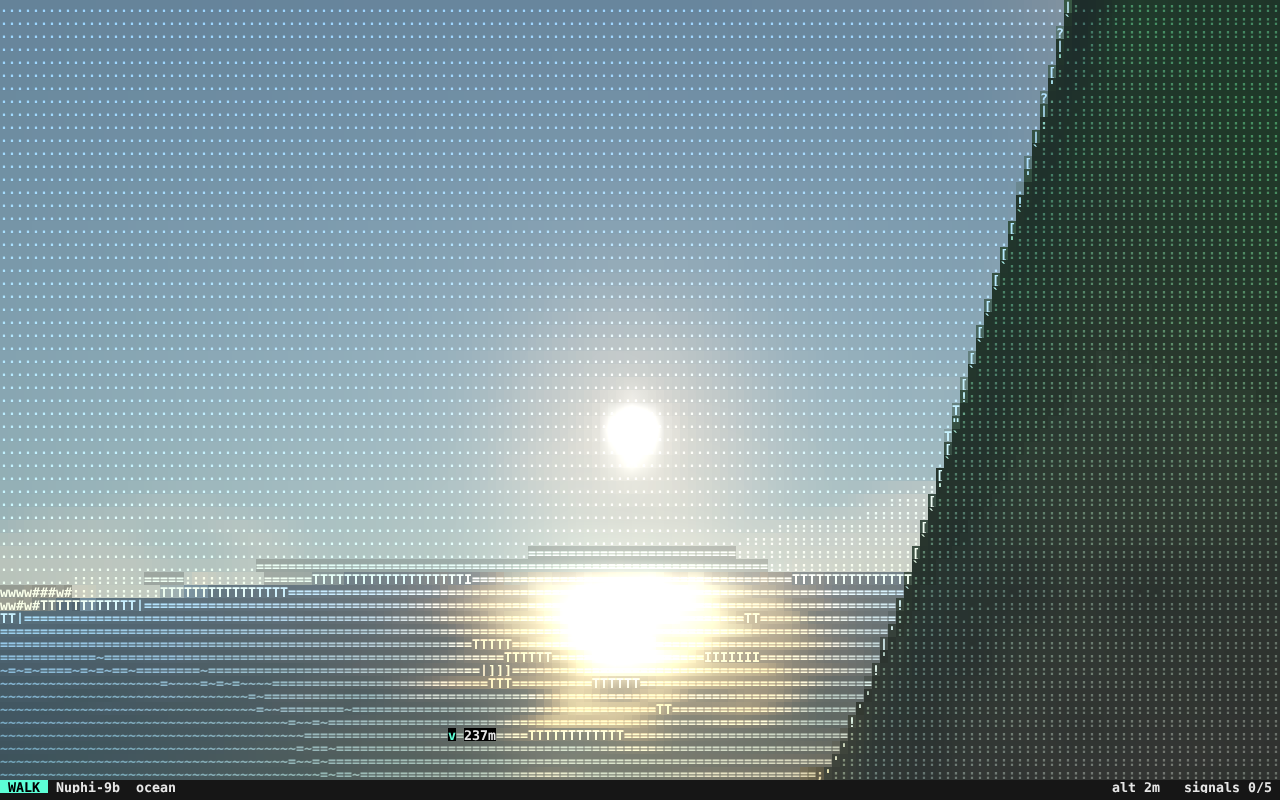
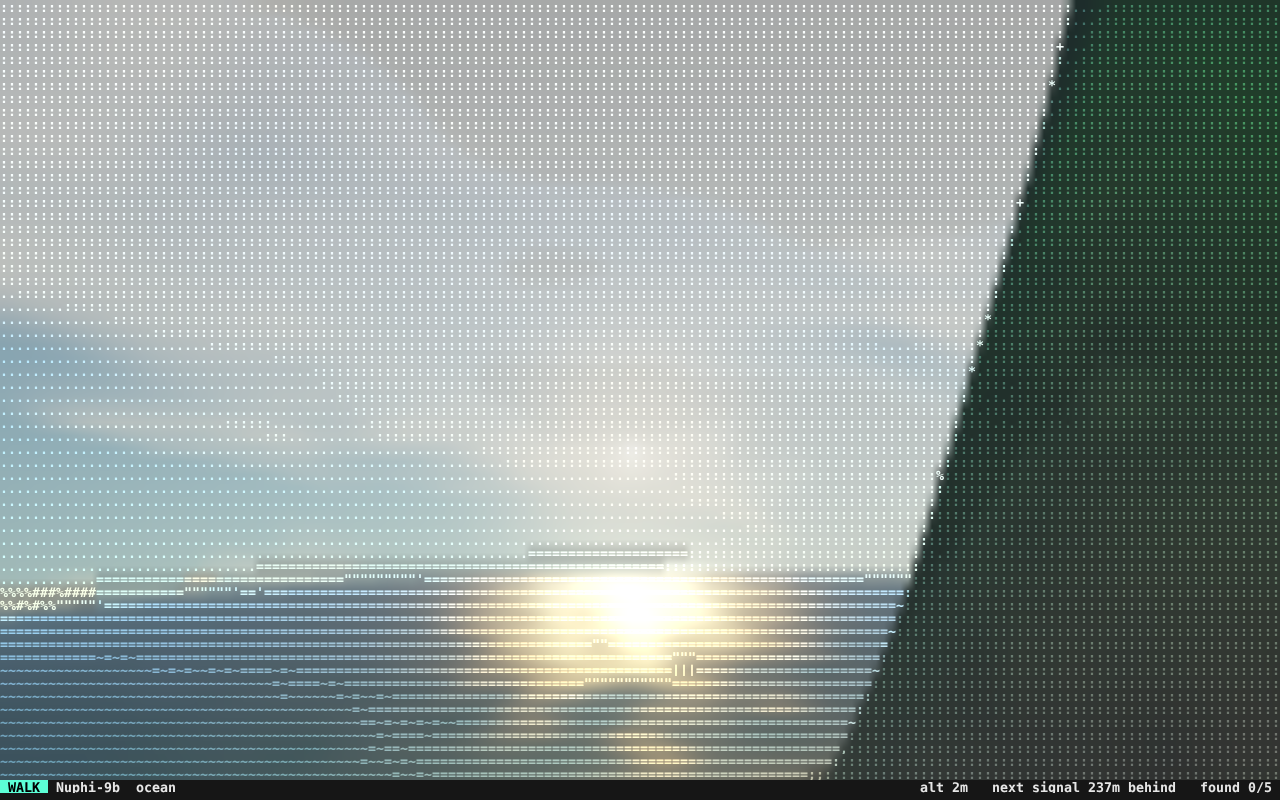
Smoother picture: no letters in the view, blended colour, signal direction in the status line
- the picture is drawn only with symbols; each surface keeps to its own
  set, and a line character (_ / \ ( ) ' ") stands in at an edge only
  when its shape actually fits
- the colour behind the characters is the cell average, blended between
  cells, so edges no longer step; nothing behind the stars
- signal beams are drawn with bars
- the floating marker is gone; the status line says how far the next
  signal is and which way to turn
- you can wade but not swim, and you cannot land on deep water
- the noise behind clouds comes from a fixed seed, so a planet looks the
  same on every load

diff --git a/index.html b/index.html
@@ -117,19 +117,19 @@ const RAMPS = [
   ' .:~',         // cloud
   ' .-~=',        // water
   ' .,:;=',       // sand
-  ' .,;"v*w',     // grass
-  ' .,:;=+x',     // dry ground
-  ' .:^x%#',      // rock
+  ' .,;"*%',      // grass
+  ' .,:;=+%',     // dry ground
+  ' .:^=%#',      // rock
   ' .:+*#',       // snow
-  ' .:*YT#&',     // tree
+  ' .:+*%&#',     // tree
   ' .:~=*%#@',    // lava
   ' .:-=+',       // ice
   ' .:+<>*#',     // crystal
-  ' .:|IH#',      // spire
+  ' .:|!#',       // spire
 ];
 // how much of the surface colour fills the cell behind the character. high values read as
 // solid shapes with a light texture, low values as loose characters on black
-const BACKING = [.5, .9, .9, .75, .7, .7, .7, .65, .75, .6, .5, .75, .5, .6];
+const BACKING = [0, .9, .9, .75, .7, .7, .7, .65, .75, .6, .5, .75, .5, .6];
 
 // heights are metres, colour stops run from the shore (0) to the highest peak (1),
 // tau is how much red/green/blue light the air scatters straight overhead,
@@ -721,6 +721,7 @@ void main() {
     float pulse = .75 + .25 * sin(uTime * 3. - sb * .08 + float(i));
     col += mix(vec3(.6), uBeaconCol, step(.5, b.w)) * b.w * g * pulse * 2.6 * smoothstep(170., 60., sb);
     glow = max(glow, g * b.w);
+    if (g * b.w > .45) mat = ${SPIRE}.;
   }
 
   col = 1. - exp(-col * 1.3);
@@ -731,7 +732,7 @@ void main() {
 // pass 2: one pixel per character cell. picks the character and its two colours
 const CELLS = `#version 300 es
 precision highp float;
-uniform sampler2D uScene, uInfo, uShapes, uRamps;
+uniform sampler2D uScene, uInfo, uShapes, uRamps, uAllow;
 uniform vec2 uGrid;
 uniform int uCount;
 uniform float uInk;
@@ -756,12 +757,14 @@ void main() {
     lo = min(lo, d[k]);
   }
   // push the samples apart so an edge inside the cell survives the match
-  if (top > 0.) for (int k = 0; k < 6; k++) d[k] = top * pow(d[k] / top, 1.8);
+  if (top > 0.) for (int k = 0; k < 6; k++) d[k] = top * pow(d[k] / top, 1.4);
 
   vec3 a = vec3(d[0], d[1], d[2]), b = vec3(d[3], d[4], d[5]);
-  float edge = smoothstep(.06, .22, (top - lo) / uInk);
+  float edge = smoothstep(.1, .3, (top - lo) / uInk);
   float dither = fract(52.9829189 * fract(dot(cell, vec2(.06711056, .00583715)))) - .5;
   float mean = (a.x + a.y + a.z + b.x + b.y + b.z) / 6.;
+  vec3 ca = a - mean, cb = b - mean;
+  float spread = dot(ca, ca) + dot(cb, cb);   // how far the cell is from flat
 
   // a flat cell takes the character its material uses at this brightness;
   // a cell with an edge in it takes whichever character has the closest shape
@@ -770,7 +773,13 @@ void main() {
   int tone = int(texelFetch(uRamps, ivec2(level, m), 0).r * 255. + .5), glyph = tone;
   float best = 1e9;
   for (int i = 0; i < uCount; i++) {
-    vec3 da = texelFetch(uShapes, ivec2(i, 0), 0).rgb - a, db = texelFetch(uShapes, ivec2(i, 1), 0).rgb - b;
+    if (i != tone && texelFetch(uAllow, ivec2(i, m), 0).r < .5) continue;
+    vec3 ga = texelFetch(uShapes, ivec2(i, 0), 0).rgb, gb = texelFetch(uShapes, ivec2(i, 1), 0).rgb;
+    float gm = (ga.x + ga.y + ga.z + gb.x + gb.y + gb.z) / 6.;
+    vec3 sa = ga - gm - ca, sb = gb - gm - cb;
+    // another character only replaces the tone when it really has the shape of this edge
+    if (i != tone && dot(sa, sa) + dot(sb, sb) > .6 * spread) continue;
+    vec3 da = ga - a, db = gb - b;
     float e = dot(da, da) + dot(db, db);
     e = i == tone ? e * edge : e + 1. - edge;
     if (e < best) { best = e; glyph = i; }
@@ -786,7 +795,7 @@ void main() {
   fg /= max(1., max(fg.r, max(fg.g, fg.b)));
 
   o0 = vec4(fg, float(glyph) / 255.);
-  o1 = vec4(dark * uBack[m], 1.);
+  o1 = vec4(avg * uBack[m], 1.);
   o2 = vec4(avg * em, 1.);
 }`;
 
@@ -817,7 +826,8 @@ void main() {
   }
   if (uRaw > .5) { o = vec4(texture(uScene, uv).rgb, 1.); return; }
   vec4 a = texelFetch(uC0, ci, 0);
-  vec3 col = mix(texelFetch(uC1, ci, 0).rgb, a.rgb, ink(int(a.a * 255. + .5), f));
+  // the colour behind the characters is blended between cell centres, so it has no steps
+  vec3 col = mix(texture(uC1, uv).rgb, a.rgb, ink(int(a.a * 255. + .5), f));
   col += textureLod(uGlow, uv, 1.).rgb * .45 + textureLod(uGlow, uv, 2.5).rgb * .35 + textureLod(uGlow, uv, 4.).rgb * .25;
   o = vec4(col, 1.);
 }`;
@@ -829,11 +839,12 @@ texture(2, gl.TEXTURE_CUBE_MAP, gl.LINEAR_MIPMAP_LINEAR);    // albedo
 texture(3, gl.TEXTURE_3D, gl.LINEAR, gl.REPEAT);             // noise
 const sceneTex = [texture(4, gl.TEXTURE_2D, gl.LINEAR), texture(10, gl.TEXTURE_2D, gl.NEAREST)];
 texture(5, gl.TEXTURE_2D, gl.NEAREST);                       // glyph shapes
-const cellTex = [texture(6, gl.TEXTURE_2D, gl.NEAREST), texture(7, gl.TEXTURE_2D, gl.NEAREST), texture(8, gl.TEXTURE_2D, gl.LINEAR_MIPMAP_LINEAR)];
+const cellTex = [texture(6, gl.TEXTURE_2D, gl.NEAREST), texture(7, gl.TEXTURE_2D, gl.LINEAR), texture(8, gl.TEXTURE_2D, gl.LINEAR_MIPMAP_LINEAR)];
 texture(9, gl.TEXTURE_2D, gl.NEAREST);                       // glyph atlas
 texture(11, gl.TEXTURE_CUBE_MAP, gl.NEAREST);                // material
 texture(12, gl.TEXTURE_2D, gl.NEAREST);                      // character per material and brightness
 texture(13, gl.TEXTURE_2D, gl.NEAREST);                      // interface text
+texture(14, gl.TEXTURE_2D, gl.NEAREST);                      // characters each material may use
 gl.pixelStorei(gl.UNPACK_ALIGNMENT, 1);
 {
   const n = new Uint8Array(32 * 32 * 32), r = mulberry(7);
@@ -864,9 +875,11 @@ function uploadPlanet() {
 
 // ---- characters
 
-// GLYPHS is what the renderer may draw with: every ramp, plus shapes that are good at edges.
-// FONT adds the rest of ASCII so the interface can write anything.
-const GLYPHS = [...new Set(RAMPS.join('') + '_/\\|()[]{}<>!?17JLTVY')].join('');
+// GLYPHS is what the picture may be drawn with: every ramp, plus a few line shapes for edges.
+// No letters or digits, so nothing in the view reads as words. FONT adds the rest of ASCII
+// so the interface can write anything.
+const EDGES = '_/\\|()\'",.^-~';
+const GLYPHS = [...new Set(RAMPS.join('') + EDGES)].join('');
 const FONT = GLYPHS + Array.from({ length: 95 }, (_, i) => String.fromCharCode(32 + i)).filter(c => !GLYPHS.includes(c)).join('');
 const MONO = 'ui-monospace, SFMono-Regular, Menlo, Consolas, "DejaVu Sans Mono", monospace';
 const view = { size: 0, cw: 8, ch: 13, cols: 0, rows: 0, ss: 2, raw: false, ink: 1 };
@@ -928,8 +941,14 @@ function buildAtlas() {
     gl.activeTexture(gl.TEXTURE0 + unit);
     gl.texImage2D(gl.TEXTURE_2D, 0, format === gl.RED ? gl.R8 : gl.RGBA8, w, h, 0, format, gl.UNSIGNED_BYTE, pixels);
   };
+  // which characters each material may use: its own set, plus the line shapes for edges
+  const allow = new Uint8Array(n * RAMPS.length);
+  RAMPS.forEach((chars, m) => {
+    for (let i = 0; i < n; i++) allow[m * n + i] = chars.includes(GLYPHS[i]) || EDGES.includes(GLYPHS[i]) ? 255 : 0;
+  });
   upload(5, gl.RGBA, n, 2, data);
   upload(12, gl.RED, 16, RAMPS.length, ramps);
+  upload(14, gl.RED, n, RAMPS.length, allow);
   gl.activeTexture(gl.TEXTURE9);
   gl.texImage2D(gl.TEXTURE_2D, 0, gl.RGBA8, gl.RGBA, gl.UNSIGNED_BYTE, c);
 }
@@ -1296,7 +1315,7 @@ function drawScene() {
   gl.viewport(0, 0, cols, rows);
   gl.useProgram(cells.p);
   u = cells.u;
-  gl.uniform1i(u.uScene, 4); gl.uniform1i(u.uInfo, 10); gl.uniform1i(u.uShapes, 5); gl.uniform1i(u.uRamps, 12);
+  gl.uniform1i(u.uScene, 4); gl.uniform1i(u.uInfo, 10); gl.uniform1i(u.uShapes, 5); gl.uniform1i(u.uRamps, 12); gl.uniform1i(u.uAllow, 14);
   gl.uniform2f(u.uGrid, cols, rows);
   gl.uniform1i(u.uCount, GLYPHS.length);
   gl.uniform1f(u.uInk, view.ink);
@@ -1348,6 +1367,19 @@ const HELP = [
   ['i', 'frame rate'],
 ];
 
+// how far the nearest signal still out there is, and which way to turn
+function nextSignal() {
+  let near = null, best = 1e9;
+  for (const b of planet.beacons) {
+    const d = len(sub(b.base, cam.pos));
+    if (!b.got && d < best) { best = d; near = b; }
+  }
+  if (!near) return '';
+  const r = sub(near.base, cam.pos), a = Math.atan2(dot(r, cam.right), dot(r, cam.fwd)) * 180 / Math.PI;
+  const way = Math.abs(a) < 25 ? 'ahead' : Math.abs(a) > 140 ? 'behind' : a > 0 ? 'right' : 'left';
+  return `   next signal ${Math.round(best)}m ${way}`;
+}
+
 function drawText() {
   const p = planet, cols = Math.floor(canvas.width / view.cw), bar = Math.floor(canvas.height / view.ch) - 1;
   const playing = mode === 'fly' || mode === 'walk';
@@ -1363,7 +1395,7 @@ function drawText() {
     const alt = len(cam.pos) - p.R - groundAt(norm(cam.pos)), speed = mode === 'fly' ? len(ship.vel) : 0;
     left = `${p.name}  ${p.K.label}`;
     right = !playing ? (touched ? 'tap to descend' : 'click to descend   n next planet   ? keys')
-          : `alt ${Math.round(alt)}m` + (mode === 'fly' ? `   ${Math.round(speed)}m/s` : '') + `   signals ${signals}/${p.beacons.length}`;
+          : `alt ${Math.round(alt)}m` + (mode === 'fly' ? `   ${Math.round(speed)}m/s` : '') + nextSignal() + `   found ${signals}/${p.beacons.length}`;
     if (ui.stats) right += `   ${stats.fps}fps ${view.cols}x${view.rows}`;
   }
   put(tag.length + 1, bar, left, 3);
@@ -1374,23 +1406,6 @@ function drawText() {
     put(2, 2 + i, ` ${k.padEnd(9)}`, 1);
     put(12, 2 + i, ` ${what.padEnd(40)}`, 2);
   });
-
-  // point at the nearest signal still out there
-  let near = null, best = 1e9;
-  for (const b of playing ? p.beacons : []) {
-    const d = len(sub(b.base, cam.pos));
-    if (!b.got && d < best) { best = d; near = b; }
-  }
-  if (!near) return;
-  const r = sub(add(near.base, mul(near.dir, 4)), cam.pos), z = dot(r, cam.fwd);
-  let x = dot(r, cam.right) / cam.fx, y = dot(r, cross(cam.right, cam.fwd)) / cam.fy;
-  const on = z > 0 && Math.abs(x) < z * .9 && Math.abs(y) < z * .8;
-  const k = on ? 1 / z : Math.min(.9 / Math.max(Math.abs(x), 1e-6), .8 / Math.max(Math.abs(y), 1e-6));
-  x *= k; y *= k;
-  const arrow = on ? '+' : Math.abs(x) > Math.abs(y) * 1.4 ? (x > 0 ? '>' : '<') : (y > 0 ? '^' : 'v');
-  const cx = (x + 1) / 2 * view.cols, cy = Math.round((1 - y) / 2 * view.rows);
-  put(cx, cy, arrow, 5);
-  put(cx + 2, cy, `${Math.round(best)}m`, 1);
 }
 
 function saveText() {

diff --git a/README.md b/README.md
@@ -12,7 +12,8 @@ or play it at <https://wavy-hec.github.io/neon-grid/>.
 ## Playing
 
 You start in orbit. Every planet has five signals on the ground, visible as beams of light.
-Fly down to one, land, and walk into it. That is the whole game; the rest is looking around.
+Fly down to one, land, and walk into it. The status line at the bottom says how far the next
+one is and which way to turn. That is the whole game; the rest is looking around.
 
 | | |
 |---|---|
@@ -36,35 +37,35 @@ A few worth visiting: `home`, `dust`, `amber`, `glacier`, `kelp`, `reef`.
 
 ````
        `                                    `
-                                                           .
+       `                                                   `
 
-               `                                                            ````
-                           `!.` `                               ` ...::::;;;;;;;
-                           `.],``     ```                `...::;;;;;;;;;;;;;;;;;
-                           ``'",`.:::.^^^^^|:.      ..::;;;;;;;;^^^''````'!;;;'`
-                            ``.`:::^^^^+++^^|||;::;;;;;;^^''`.::::;:;;::: |^'`
-                           ` :^:^^^^^^++^+========;!'`,::::;;;;;;;;;;::'-'
-    `                      .^:,:^^^^^=========^=====;;;!'''``     :;:''
-                           ::,::;========^=;;;===;;;;.         .:''`
-`                        .:;;;;;===+^=;;;;;;;|+^^^^++;'     . ''        `
-      -              ..:;;;=;;;';;;;;;==^^+++++x^|^++^;    ``
-                 .::;;;;;;^:;;;;=;;++++^+++++++xx^^+++^
-             .::;;;;^'`::;;;;;^++++++++^++++^++x^++^"+^:
-         ..:;;;;^'`::;;;;;^^^;;;;;+;+^^^++++!++^;;;::^+^`
-      .:;;;;;"`.:;;;:'.,,;|[^:^^;^^^^""^+++;|+++++;::+^^`
-   .:;;;;^'`::;;;^'''"""'^"^^:;+^:::^+::!^+^++^+++;^+++|`` ```
-.:;;;;!''::;:;'`      ```:'^^^:^^^^::::::^^^^^^^^++;+++^*;,,.`
-;;;;^`::;;;;;`   ` ._ -``':!^^:^^^^^^:::^^^^^x^^;;;+^^`'``'""--`
-;;;| ':;;:':''''''        ''!^^'^++;:;:,;^^^x^^^;;;+^' ` ` ``
-;;;^^--'````               ',^^:++^;;:::^^^^^^^^;^^^`
-                            '!:::;;++;;;++^^^^^^^^"`
-              `               '';;;:^^+^++^^^^^!''                     `
-                                 '''':^^^^^+;:'`         `
-                                      '`' ``
+               `            `                                               ````
+                           `*.```                               ``...::::;;;;;;;
+                           `.+,``     ````               `..:::;;;;;;;;;;;;;;;;;
+               `          ```.`'`.::::^^^^=|:.`    `..::;;;;;;;;:^''''''.':;;;'`
+ `                          ``.::::^==^+++==^^^;::;;;;;;:^''',:::;;;;;;;;.:''`
+                           `.:^;^^^^^^++=+========;:'',::;;;;;;;;;;;;;;','
+    `  `                   .^:::^^^=^===============;;;:^^'``` ` .;;:'.
+                          `::,:^;===;===+==;;;====;+;:         .|^'`         `
+`                        .:;;;;;===+^====;;==++==^^++;:     ..'``
+  `   `              `.:;;;=;;;;;;;;;;===^+=+++==^=++^;`` ```
+                 .::;;;;;;=;;;;;==;++++=+++++++==^^+++^`
+             .::;;;;:''::;;;;;^++++++++=++++^++==++^++^|
+         `.:;;;;:''|:;;;;;^^^;;+;++;+^^^+++++++=+;;::^+=`
+      .:;;;;;'',:;;;;:',,:||^;^^;^^^^^:^++++++++++;;^+^=`
+  `.:;;;;''':;;;;^'''"""'^^^^:;+^:::^+::^=+=++=+++;^+++;``````
+.:;;;;:'':;;;;^`    `````:,^^^:^=^^;;:^::=======^++;+++^!|,,.`
+;;;;'.:;;;;;;.   ``.  -``.::^^:^==^^^;::^^^=====;;;+^^'```'""^.`
+;;;: ';;;;:;;:'''``       .,;^^:=++;^;:,+^^=====+;;+^: ` ````             `
+;;;::--.`.``               .,^^:++^;;:^;^^===^^=+^=^'
+                            `;:::;;++;;;++^^^^^===^`
+              `               .';;;:^^+^++^^=^^=''                     `
+             `                  ``':':^^^^^++:'`         `              `
+              `                       ``````                    `
 
 
-
-                                                                  `
+                      `                              `
+                               `                                  `
                                          `
 ````
 
@@ -85,12 +86,12 @@ Drawing is three passes on the GPU.
    (4x6 while the machine keeps up). Sunlight, shadows, sea, clouds, rings and the atmosphere are
    all in this one shader.
 2. One pixel per cell: choose the character. A flat cell takes one from its material's own set
-   by brightness, so water is `-~=`, rock is `^x%#`, trees are `*YT&`. A cell with an edge in it
-   is matched by shape instead. Every glyph is measured once for how much ink falls in each of
-   six regions of its cell, and the glyph closest to the cell's six samples wins. That is what
-   keeps horizons and silhouettes sharp.
-3. Stamp the glyphs from an atlas at full resolution, add bloom, and write the status line into
-   the same grid.
+   by brightness, so water is `-~=`, rock is `^=%#`, trees are `+*%&#`. Where a cell has an edge
+   in it, a line character (`_ / \ ( ) ' "`) can stand in, but only if its shape fits: every
+   glyph is measured once for how much ink falls in each of six regions of its cell, and that is
+   compared with the cell's six samples. There are no letters or digits in the picture.
+3. Stamp the glyphs from an atlas at full resolution over a background colour that is blended
+   between cells, add bloom, and write the status line into the same grid.
 
 Matching glyphs by shape rather than brightness comes from Alex Harri's article
 [ASCII characters are not pixels](https://alexharri.com/blog/ascii-rendering).
